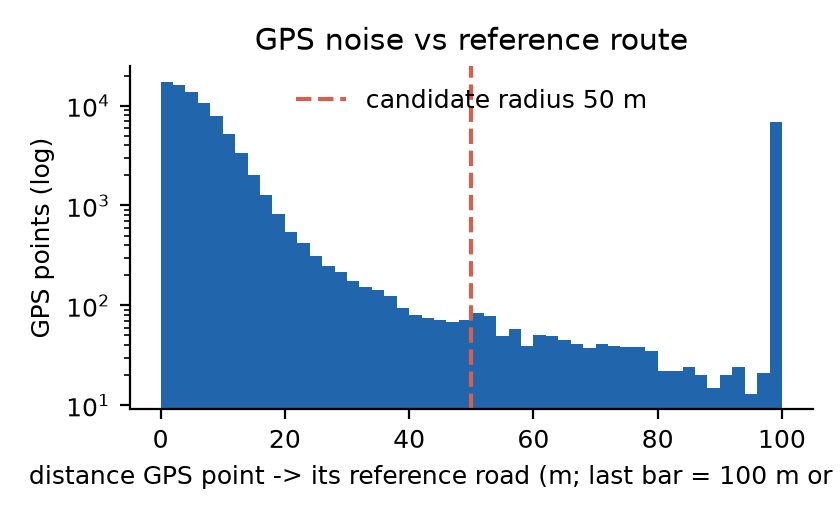
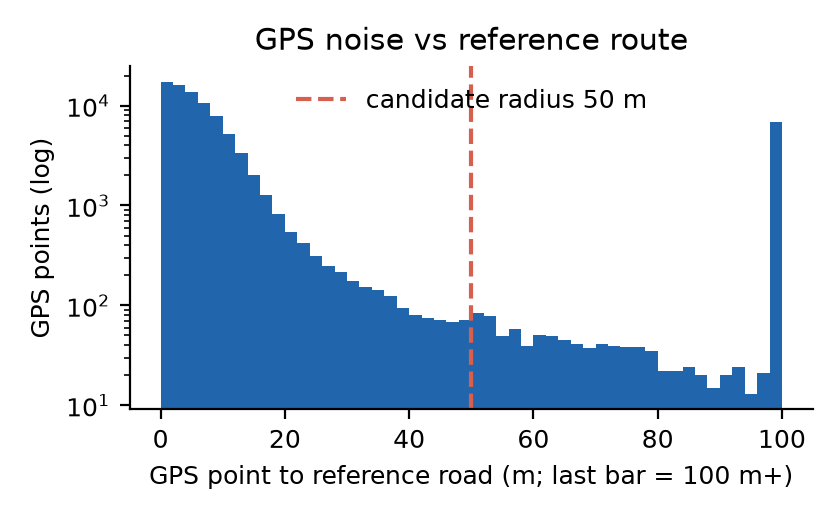
EDA report panel: legend, route on top, shorter labels

Changed region(s): [[0.031, 0.8923, 0.9905, 0.9538]]

diff --git a/scripts/run_eda_figures.py b/scripts/run_eda_figures.py
@@ -13,6 +13,7 @@ sys.path.insert(0, str(ROOT / "src"))
 import matplotlib
 matplotlib.use("Agg")
 import matplotlib.pyplot as plt
+from matplotlib.lines import Line2D
 import numpy as np
 import pandas as pd
 from scipy.sparse import csr_matrix
@@ -90,7 +91,7 @@ ol = pd.concat([read("train_obs_labels").assign(partition="train"), read("studen
 dist = ol["label_dist_m"].clip(upper=100)
 fig, ax = plt.subplots(figsize=(4.2, 2.6))
 ax.hist(dist, bins=50, color="#2166ac"); ax.set_yscale("log"); ax.axvline(50, color="#d6604d", ls="--", label="candidate radius 50 m")
-ax.set_xlabel("distance GPS point -> its reference road (m; last bar = 100 m or more)"); ax.set_ylabel("GPS points (log)")
+ax.set_xlabel("GPS point to reference road (m; last bar = 100 m+)"); ax.set_ylabel("GPS points (log)")
 ax.set_title("GPS noise vs reference route"); ax.legend(frameon=False)
 fig.tight_layout(); fig.savefig(FIG / "eda_label_distance.png", dpi=200); plt.close(fig)
 print("GPS->reference distance: median %.1f m, 95th pct %.1f m, share > 50 m: %.3f" % (ol.label_dist_m.median(), ol.label_dist_m.quantile(.95), (ol.label_dist_m > 50).mean()))
@@ -104,8 +105,8 @@ def trip_axes(ax, split, t):
     for a in near[:3000]:
         ax.plot([n.x1[a], n.x2[a]], [n.y1[a], n.y2[a]], color="#bbbbbb", lw=.6, zorder=1)
     for a in route:
-        ax.plot([n.x1[a], n.x2[a]], [n.y1[a], n.y2[a]], color="#1a9850", lw=3.2, zorder=2)
-    ax.scatter(px, py, s=1.2, color="#2166ac", zorder=3)
+        ax.plot([n.x1[a], n.x2[a]], [n.y1[a], n.y2[a]], color="#1a9850", lw=1.2, zorder=4)
+    ax.scatter(px, py, s=5, color="#2166ac", zorder=3)
     ax.set_aspect("equal"); ax.set_xticks([]); ax.set_yticks([]); ax.set_title(f"trip {t} ({split})", fontsize=8)
 
 # small multiples of 6 trips
@@ -118,7 +119,11 @@ fig.tight_layout(); fig.savefig(FIG / "eda_trajectories.png", dpi=200); plt.clos
 # 2-panel figure for the report: trajectory/network/route + GPS noise histogram
 fig, (a, b) = plt.subplots(1, 2, figsize=(7, 2.9), gridspec_kw={"width_ratios": [1.1, 1]})
 trip_axes(a, "student_test", "00000052")
+a.legend(handles=[Line2D([0], [0], color="#bbbbbb", lw=1, label="Road network"),
+                  Line2D([0], [0], color="#1a9850", lw=2.4, label="Reference route"),
+                  Line2D([0], [0], marker="o", color="w", markerfacecolor="#2166ac", markersize=4, label="GPS points")],
+         fontsize=6, frameon=False, loc="upper left")
 b.hist(dist, bins=50, color="#2166ac"); b.set_yscale("log"); b.axvline(50, color="#d6604d", ls="--", label="radius 50 m")
-b.set_xlabel("GPS point -> reference road (m; last bar = 100 m or more)"); b.set_ylabel("GPS points (log)"); b.set_title("GPS noise vs reference", fontsize=8); b.legend(frameon=False)
+b.set_xlabel("GPS point to reference road (m; last bar = 100 m+)"); b.set_ylabel("GPS points (log)"); b.set_title("GPS noise vs reference", fontsize=8); b.legend(frameon=False)
 fig.tight_layout(); fig.savefig(FIG / "eda_report_panel.png", dpi=250); plt.close(fig)
 print("figures written to", FIG)
